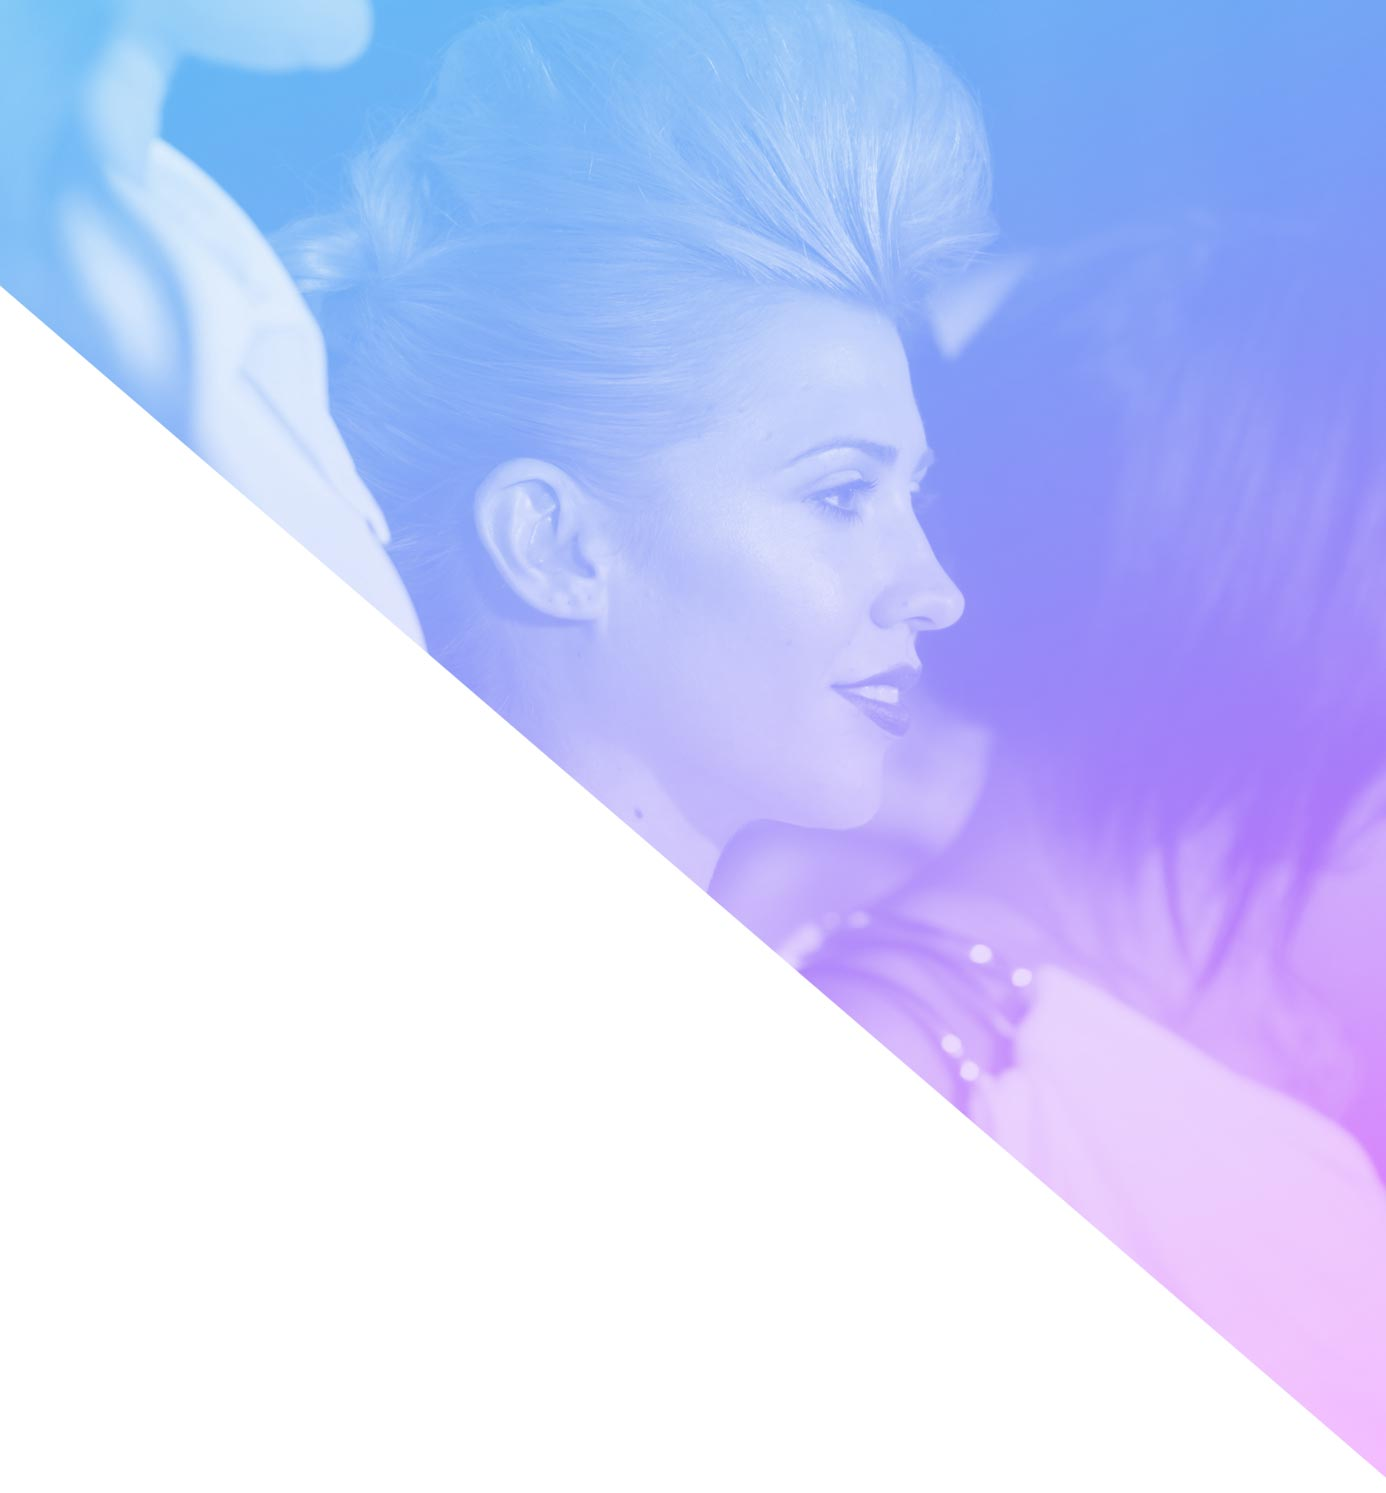
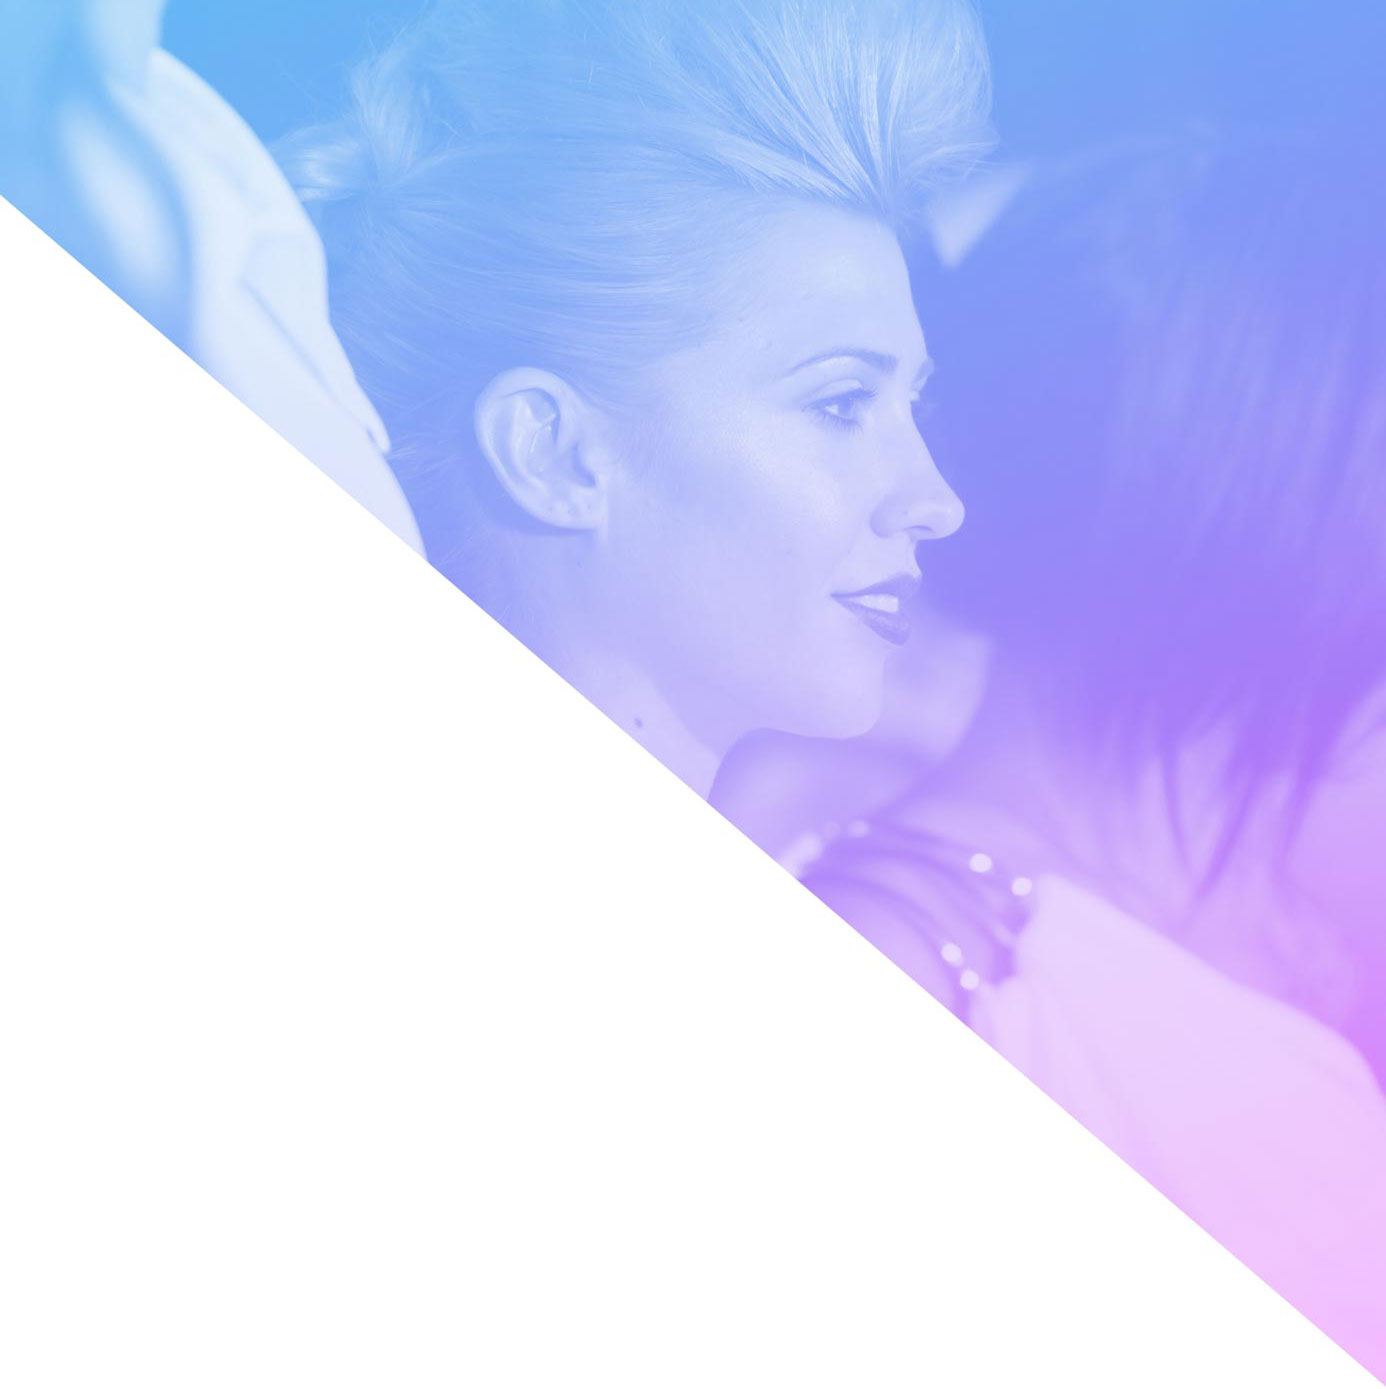
incremental work on dallas sessions page

diff --git a/app/assets/stylesheets/public_website/sessions.css.scss b/app/assets/stylesheets/public_website/sessions.css.scss
@@ -591,12 +591,10 @@
   min-height: 27px;
 }
 
-// body.sessions-bg-2017 {
-//   background: #FFF asset-data-url('sessions/sessions-bg.jpg') no-repeat top right;
-// }
-
 .session-2017 {
-
+  background: #FFF asset-data-url('sessions/sessions-bg3.jpg') no-repeat top left;
+  background-size: contain;
+  
   /* bb = bottom border */
   h2.bb {
     font-family: 'Lato', sans-serif;
@@ -666,15 +664,54 @@
   }
 
   .header {
-    margin: 30px 0;
-    height: 392px;
+    margin: 0 0 30px 0;
+    height: 1209px;
+  }
+
+  .logo {
+    text-align: center;
+    padding: 80px 0 0 0;
+  }
+
+  .tickets-on-sale-now {
+    text-align: center;
+    margin: 30px 0 40px 0;
+
+    h3 {
+      font-family: 'Lato', sans-serif;
+      margin: 0;
+      color: #FFF;
+      font-size: 25px;
+      line-height: 27px;
+      font-weight: bold;
+      letter-spacing: 0;
+      text-transform: none;
+    }
+  }
+
+  .buy-now {
+    text-align: center;
+    margin: 10px 0 110px 0;
+
+    a, a:link, a:visited, a:hover, a:active {
+      display: inline-block;
+      background: #000;
+      color: #FFF;
+      font-family: 'Lato', sans-serif;
+      font-size: 21px;
+      line-height: 21px;
+      letter-spacing: 2px;
+      padding: 12px 22px 13px 22px;
+      border-radius: 21px;
+      text-transform: uppercase;
+    }
   }
 
   .ticket-details {
     position: absolute;
     left: 50%;
-    margin-left: -200px;
-    width: 400px;
+    margin-left: -215px;
+    width: 430px;
 
     .left {
       position: absolute;
@@ -697,9 +734,8 @@
         vertical-align: top;
         font-family: 'Dosis', sans-serif;
         font-weight: bold;
-        font-size: 129px;
+        font-size: 159px;
         line-height: 129px;
-
       }
 
       .dollar-sign {

diff --git a/app/assets/javascripts/sessions.js b/app/assets/javascripts/sessions.js
@@ -54,7 +54,7 @@ $(function () {
   });
 
   // hero height
-  var outerHeight = 210;
+  var outerHeight = 720;
   $('.calc-height').each(function () {
     outerHeight += $(this).outerHeight();
   })
